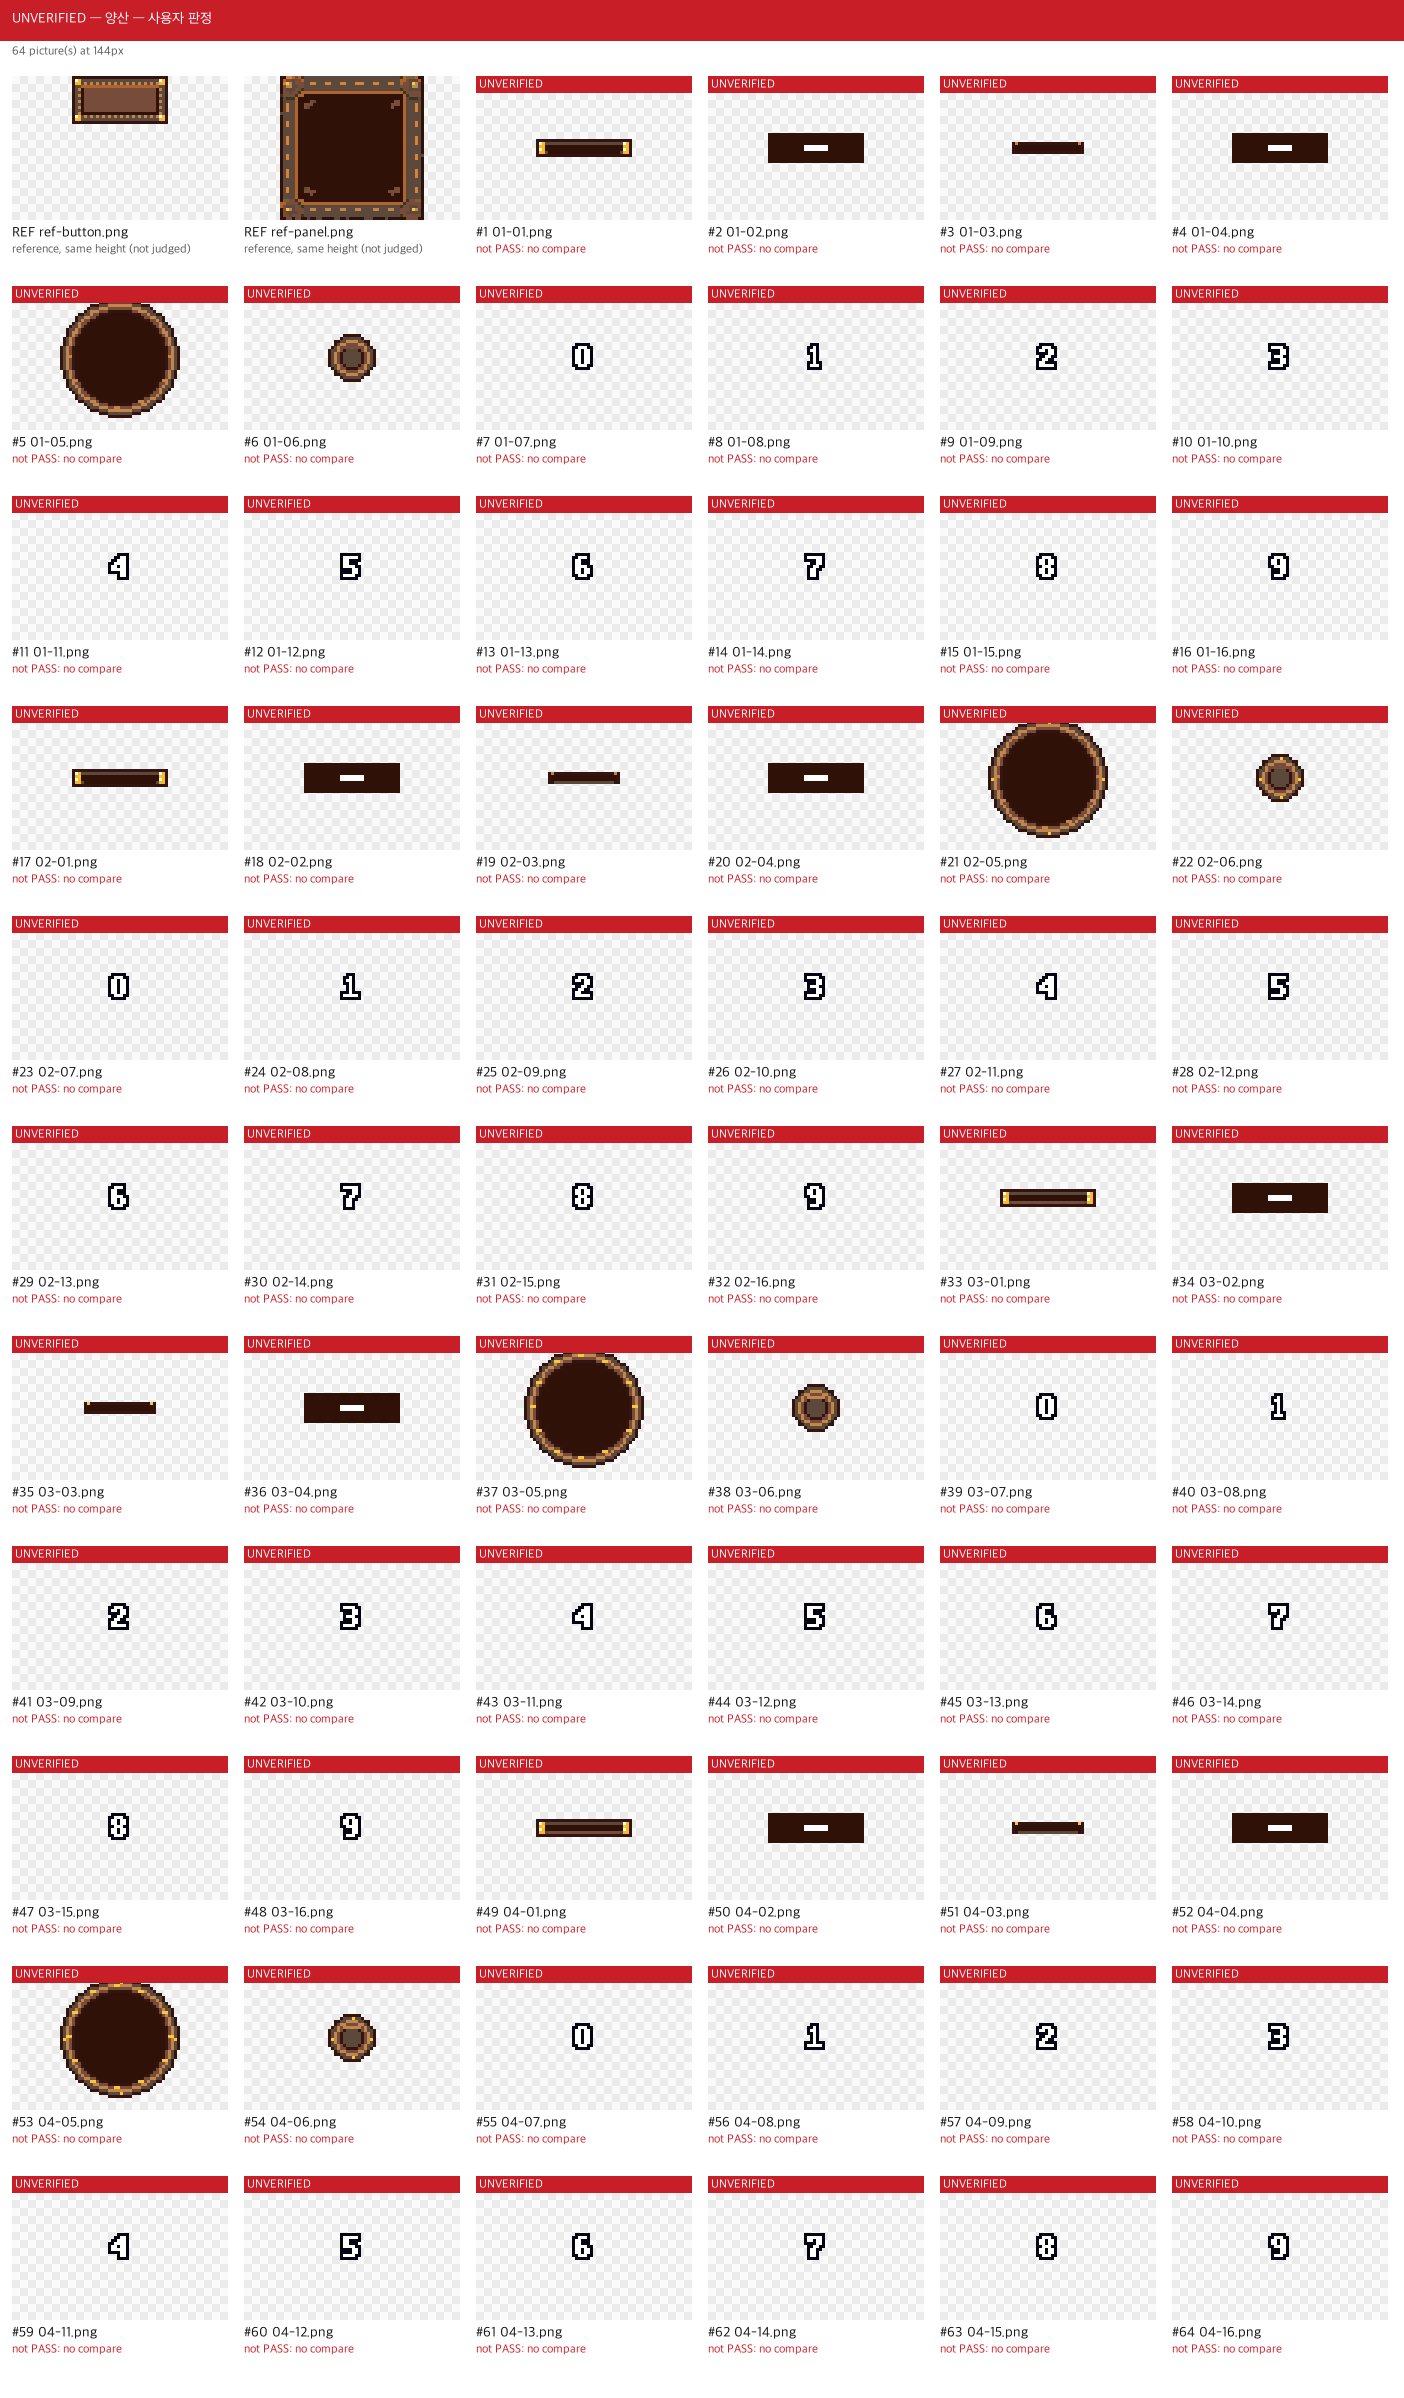
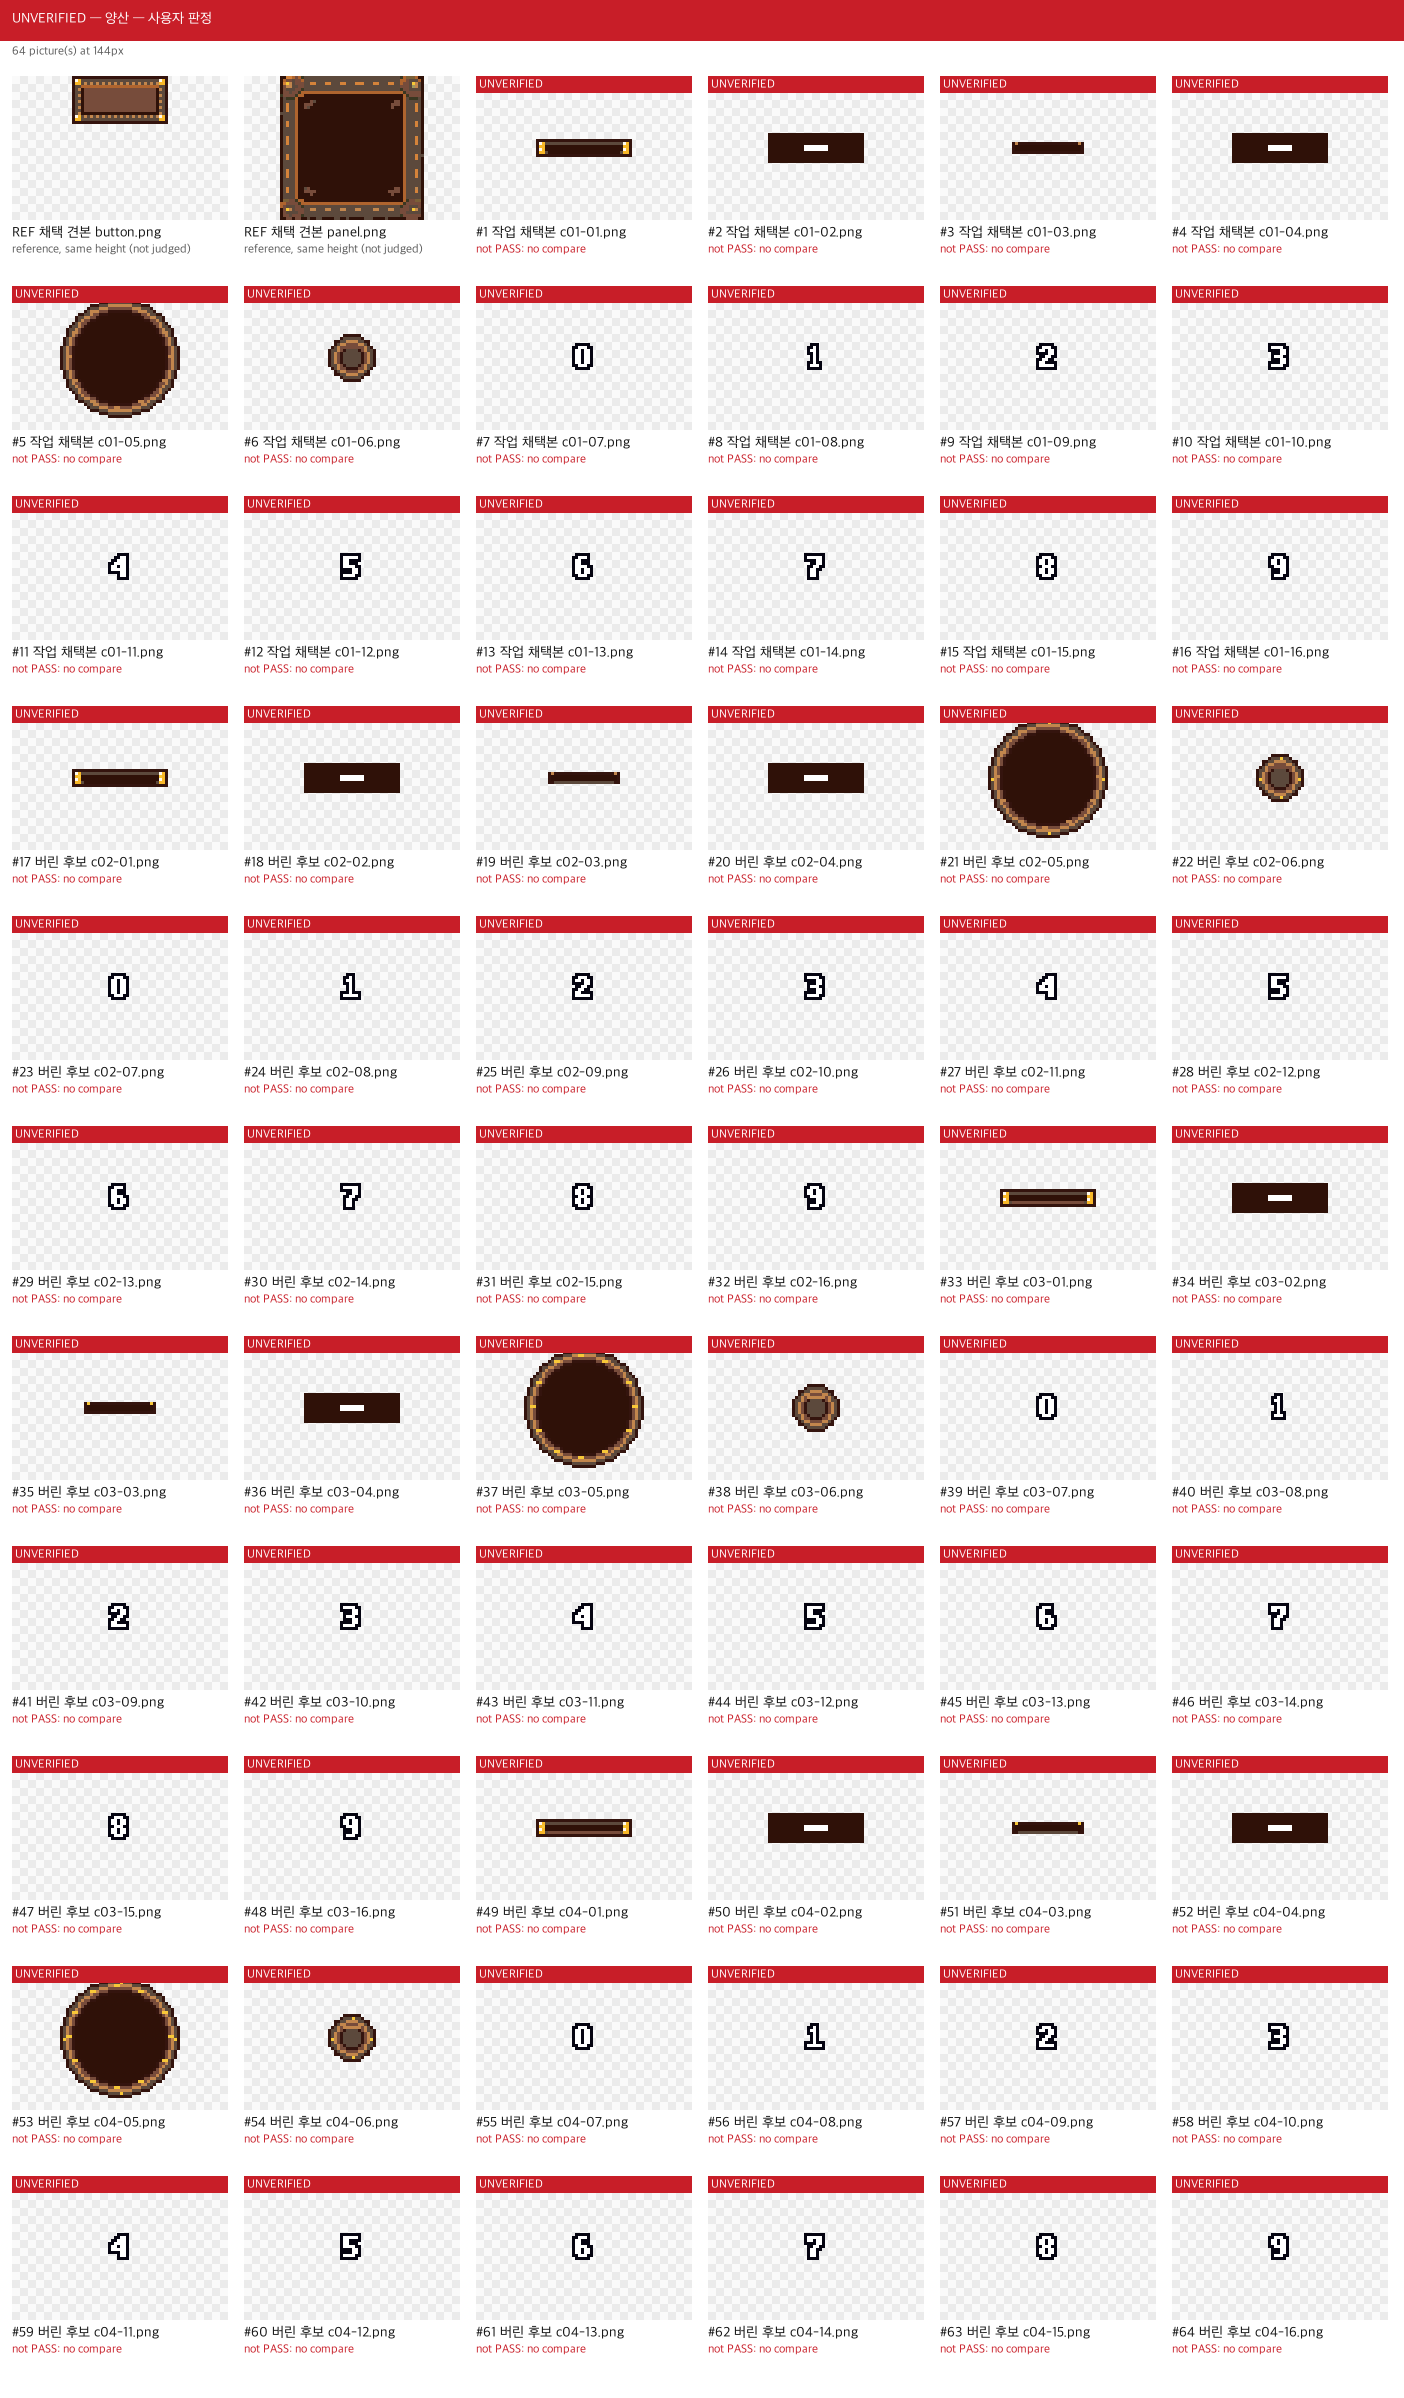
art: UI 양산 시트 구분과 재현 검사 증거 보완
Claude-Session: https://claude.ai/code/session_016wFE5tkmsomUMadedWuX3E

diff --git a/docs/art/sheets/ui-bars-build.py b/docs/art/sheets/ui-bars-build.py
@@ -72,6 +72,27 @@ def nine(im,width,b):
     o.paste(im.crop((b,0,w-b,h)).resize((width-2*b,h),Image.Resampling.NEAREST),(b,0))
     return o
 
+def verify_exports():
+    # 납품 PNG에서 목적 크기별 양끝과 중앙의 실제 픽셀을 검사한다.
+    for name,b,widths in [('hp_bar_bg',4,(32,97,150)),('cooldown_bg',2,(24,97,150))]:
+        im=Image.open(UI/(name+'.png')).convert('RGBA')
+        for width in widths:
+            out=nine(im,width,b)
+            assert out.size==(width,im.height)
+            assert out.crop((0,0,b,im.height)).tobytes()==im.crop((0,0,b,im.height)).tobytes()
+            assert out.crop((width-b,0,width,im.height)).tobytes()==im.crop((im.width-b,0,im.width,im.height)).tobytes()
+            columns=[out.crop((x,0,x+1,im.height)).tobytes() for x in range(b,width-b)]
+            assert len(set(columns))==1,(name,width,'중앙 레일 단절')
+            print(f'PASS 9-slice {name} width={width}: 양끝 RGBA 보존, 중앙 단색 레일',flush=True)
+    for name in ('hp_bar_fill','cooldown_fill'):
+        im=Image.open(UI/(name+'.png')).convert('RGBA')
+        assert im.tobytes()==bytes((255,255,255,255))*(im.width*im.height)
+        print(f'PASS tint {name}: 순백색 단1색',flush=True)
+    for n in range(10):
+        im=Image.open(UI/'digits'/f'digit_{n}.png')
+        assert im.size==(7,9) and im.getbbox()[3]-im.getbbox()[1]==9
+    print('PASS digits: 10장 캔버스7x9, 전체 높이9px',flush=True)
+
 def tile(im,width):return im.resize((width,im.height),Image.Resampling.NEAREST)
 def create():
     W.mkdir(parents=True,exist_ok=True);(UI/'digits').mkdir(exist_ok=True)
@@ -96,7 +117,12 @@ def create():
     run(T/'matte.py','fringe','--whole','--key','#ff00ff',*candidates)
     final=[UI/(k+'.png') for k in allsets[0] if not k.startswith('digit_')]+list((UI/'digits').glob('*.png'))
     run(T/'matte.py','fringe','--whole','--key','#ff00ff',*final)
-    # 동일 72x48 캔버스로 게임 크기 3배를 보장. 중립 번호만 쓴다.
+    verify_exports()
+    checker=ROOT/'Tools/check_sprites.py'
+    run(checker,'--palette',ROOT/'docs/art/아트-기준서.md','--max-size','16x16','--count','10','--binary-alpha',UI/'digits')
+    run(checker,'--palette',ROOT/'docs/art/아트-기준서.md','--max-size','96x96','--count','6',*final[:6])
+    run(checker,'--palette',ROOT/'docs/art/아트-기준서.md','--max-size','96x96','--count','64','--binary-alpha',*candidates)
+    # 동일 72x48 캔버스로 게임 크기 3배를 보장. blind용 중립 번호는 유지한다.
     pages=[]
     for v,items in enumerate(allsets):
         for i,(k,im) in enumerate(items.items()):
@@ -107,7 +133,17 @@ def create():
     refs=[]
     for name in ('button','panel'):
         im=Image.open(S/(name+'.png')).convert('RGBA');c=Image.new('RGBA',(72,48));c.alpha_composite(im,((72-im.width)//2,0));p=W/f'ref-{name}.png';c.save(p);refs.append(p)
-    run(T/'sheet.py','grid',ROOT/'docs/art/sheets/ui-bars.png',*pages,'--against',*refs,'--size','144','--numbered','--unverified','양산 — 사용자 판정')
+    # 일반 시트는 그림만 봐도 채택/버림을 알 수 있게 파일명을 라벨로 쓴다.
+    labelled=[]
+    for v in range(4):
+        for i in range(16):
+            label='작업 채택본 c01' if v==0 else f'버린 후보 c{v+1:02}'
+            p=W/f'{label}-{i+1:02}.png'
+            p.write_bytes(pages[v*16+i].read_bytes());labelled.append(p)
+    labelled_refs=[]
+    for name,p in zip(('button','panel'),refs):
+        q=W/f'채택 견본 {name}.png';q.write_bytes(p.read_bytes());labelled_refs.append(q)
+    run(T/'sheet.py','grid',ROOT/'docs/art/sheets/ui-bars.png',*labelled,'--against',*labelled_refs,'--size','144','--numbered','--unverified','양산 — 사용자 판정')
     # 이름을 가린 판독 시트: 첫 세트만, 용도와 채택 여부 표기 없음.
     run(T/'sheet.py','grid',ROOT/'docs/art/sheets/ui-bars-blind.png',*pages[:16],'--against',*refs,'--size','144','--numbered','--unverified','양산 — 사용자 판정')
     composite(allsets[0])
